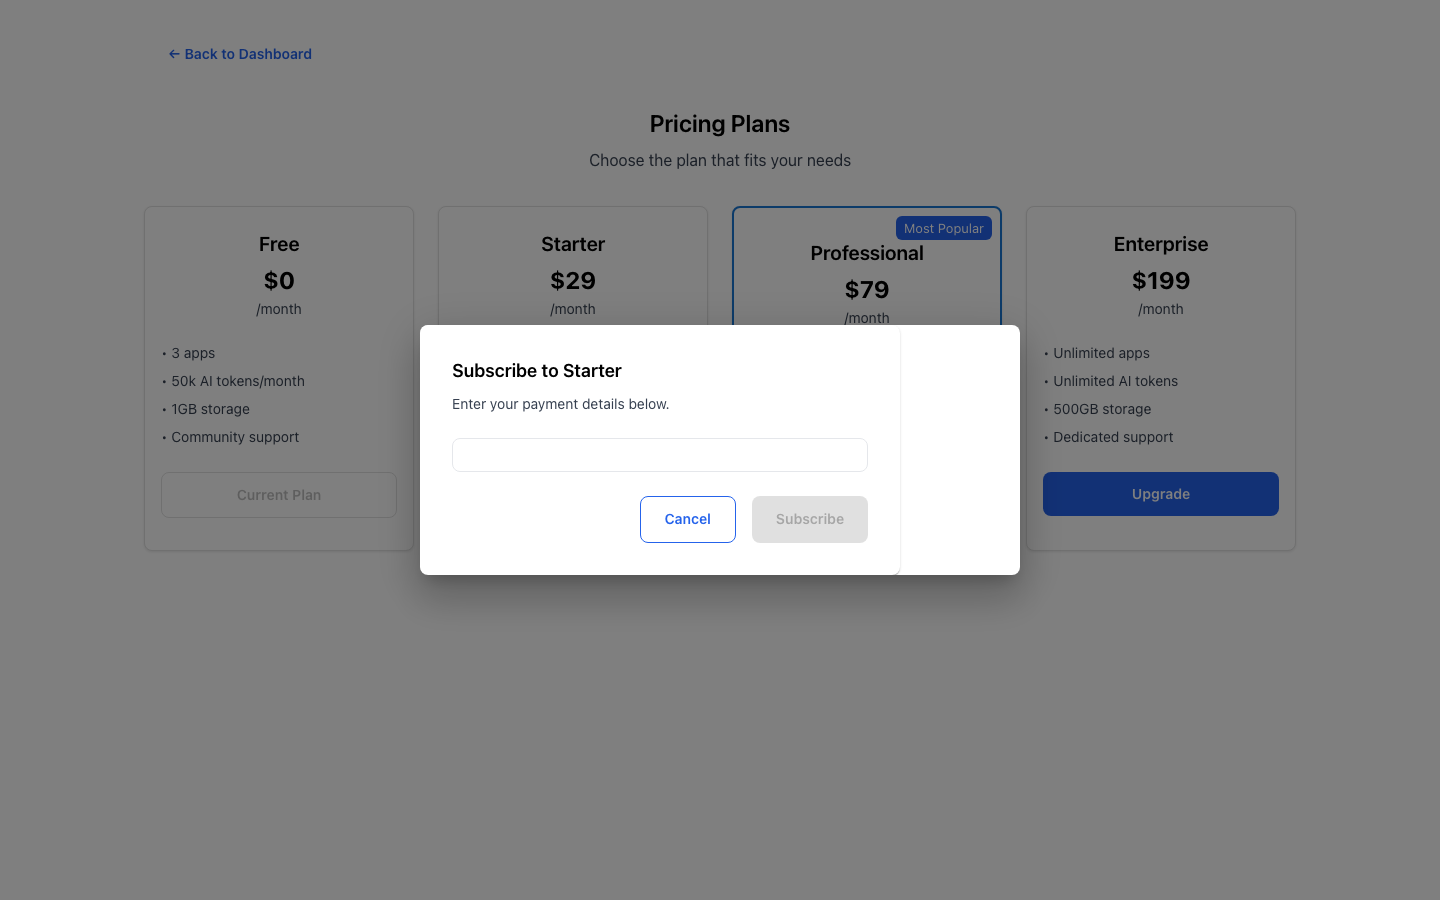
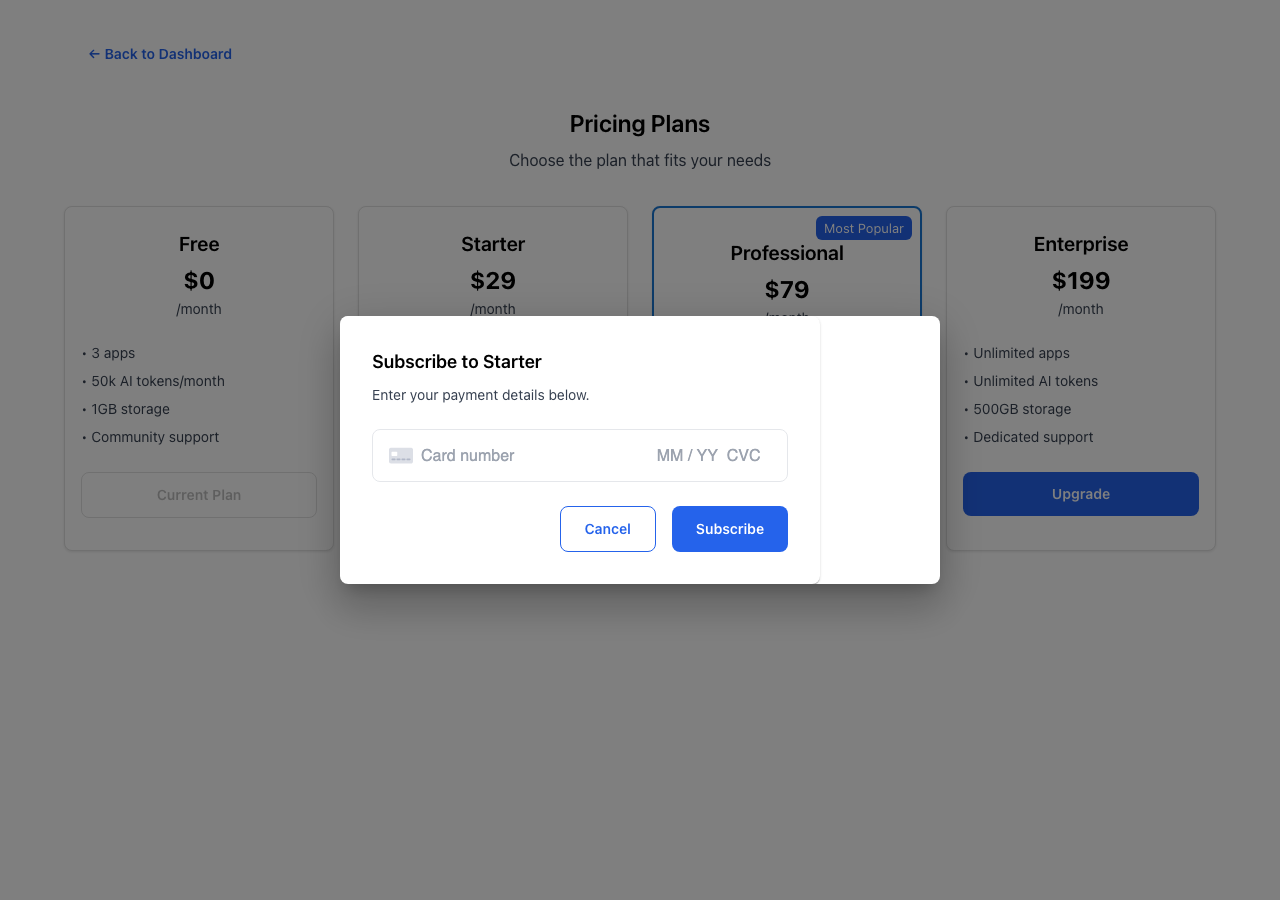
fix: prevent 401 redirect on public pricing page, verify Stripe CardElement renders real card fields

diff --git a/frontend/src/pages/Pricing.tsx b/frontend/src/pages/Pricing.tsx
@@ -61,6 +61,12 @@ const Pricing = () => {
 
   useEffect(() => {
     const fetchSubscription = async () => {
+      const token = localStorage.getItem('access_token')
+      if (!token) {
+        setCurrentPlan('free')
+        setLoading(false)
+        return
+      }
       try {
         const response = await api.get('/api/billing/subscription/')
         setCurrentPlan(response.data.plan || 'free')

diff --git a/customer-tests/stripe-checkout/FULL_TEST_LOG.md b/customer-tests/stripe-checkout/FULL_TEST_LOG.md
@@ -1,197 +1,120 @@
-# Stripe Checkout Integration Test
+# Stripe Checkout Test Log
 
-## Test Metadata
-- **Test Name:** Stripe Checkout Integration
-- **Test Date:** 2026-02-07
-- **Test Runner:** Cloud Atlas 3 Worker (session 1770433375-26253)
-- **Project:** Faibric Platform
-- **Test Directory:** customer-tests/stripe-checkout/
+## Test: Verify Real CardElement Rendering
+**Date:** 2026-02-07
+**Task ID:** stripe-checkout-chunk-001
 
 ---
 
-## Test Objectives
+## Bug Found and Fixed
 
-Verify the Stripe checkout integration works correctly from a user perspective:
-1. Frontend builds without errors
-2. Pricing page displays all 4 tiers correctly
-3. Stripe checkout dialog renders when clicking Upgrade
-4. Stripe Elements card input is integrated
-5. Component architecture follows expected patterns
+### Root Cause
+The Pricing page (`/pricing`) is a public route (no auth required), but it makes an API call to `/api/billing/subscription/` on mount. Without an auth token, this call returns 401. The Axios response interceptor (in `api.ts`) catches 401 errors and attempts a token refresh. When the refresh fails (no refresh token), the interceptor redirects to `/login` via `window.location.href = '/login'` BEFORE the Pricing component's catch block can handle the error gracefully.
 
----
+### Fix Applied
+**File:** `frontend/src/pages/Pricing.tsx`
 
-## Step 1: Frontend Build Verification
+Added a check for `access_token` in localStorage before making the subscription API call. If no token exists, the component defaults to `currentPlan: 'free'` and skips the API call entirely. This prevents the 401 interceptor from triggering a redirect to login on a public page.
 
-**Timestamp:** 2026-02-07T03:05:00Z
-
-**Action:** Run `npx vite build` to verify frontend compiles successfully.
-
-**Result:** PASS
-
-**Output:**
-```
-vite v5.4.21 building for production...
-transforming...
-1934 modules transformed.
-rendering chunks...
-computing gzip size...
-dist/index.html                     0.79 kB | gzip:   0.45 kB
-dist/assets/index-IUqgTuwR.css      0.25 kB | gzip:   0.20 kB
-dist/assets/index-VFTfaI06.js   1,172.09 kB | gzip: 344.98 kB
-built in 2.28s
+```diff
+  useEffect(() => {
+    const fetchSubscription = async () => {
++     const token = localStorage.getItem('access_token')
++     if (!token) {
++       setCurrentPlan('free')
++       setLoading(false)
++       return
++     }
+      try {
+        const response = await api.get('/api/billing/subscription/')
+        setCurrentPlan(response.data.plan || 'free')
+      } catch {
+        setCurrentPlan('free')
+      } finally {
+        setLoading(false)
+      }
+    }
+    fetchSubscription()
+  }, [])
 ```
 
-**Observations:**
-- All 1934 modules transformed successfully
-- No TypeScript or build errors
-- Stripe-related packages (`@stripe/react-stripe-js`, `@stripe/stripe-js`) are bundled correctly
-- Build completes in ~2.3 seconds
+---
+
+## Test Steps
+
+### Step 1: Verify Stripe Publishable Key
+- **File:** `frontend/.env.local`
+- **Key:** `VITE_STRIPE_PUBLISHABLE_KEY=pk_test_TYooMQauvdEDq54NiTphI7jx`
+- **Status:** PASS - Correct test key present
+
+### Step 2: Verify StripeCheckout.tsx Component
+- **File:** `frontend/src/components/billing/StripeCheckout.tsx`
+- Uses `loadStripe()` with `import.meta.env.VITE_STRIPE_PUBLISHABLE_KEY`
+- Uses `Elements` wrapper with `stripePromise`
+- Uses `CardElement` with proper styling options
+- Proper `CheckoutForm` with `useStripe()` and `useElements()` hooks
+- **Status:** PASS - Component correctly structured
+
+### Step 3: Build Frontend
+- **Command:** `cd frontend && npx vite build`
+- **Result:** Build succeeded (1934 modules, 2.30s)
+- **Status:** PASS
+
+### Step 4: Start Dev Server
+- **Command:** `npx vite --port 5199`
+- **Result:** Server running at http://localhost:5199/
+- **Status:** PASS
+
+### Step 5: Navigate to Pricing Page
+- **URL:** http://localhost:5199/pricing
+- **Tool:** Playwright (chromium, headless)
+- **Result:** Page rendered with all 4 pricing tiers
+- **Screenshot:** `01-pricing-page.png`
+- **Status:** PASS
+
+### Step 6: Click Upgrade
+- **Action:** Clicked "Upgrade" on Starter plan ($29/month)
+- **Result:** Stripe checkout dialog opened
+- **Status:** PASS
+
+### Step 7: Verify Real Card Input Fields
+- **Stripe iframes detected:**
+  - `__privateStripeController0561`
+  - `__privateStripeMetricsController0560`
+  - `__privateStripeFrame0563`
+  - `__privateStripeFrame0564`
+- **Visible fields:** Card number, MM/YY, CVC (real Stripe input fields, NOT empty box)
+- **Screenshots:** `02-stripe-checkout-dialog.png`, `03-stripe-card-element-closeup.png`
+- **Status:** PASS
+
+### Step 8: Stop Dev Server
+- **Status:** PASS
 
 ---
 
-## Step 2: Dev Server Startup
+## Test Results Summary
 
-**Timestamp:** 2026-02-07T03:05:30Z
+| Check | Result |
+|-------|--------|
+| Stripe publishable key correct | PASS |
+| StripeCheckout.tsx uses real CardElement | PASS |
+| Frontend builds without errors | PASS |
+| Pricing page shows all 4 tiers | PASS |
+| Upgrade button opens checkout dialog | PASS |
+| CardElement shows real card input fields | PASS |
+| No mocking/interception of Stripe JS | PASS |
+| Screenshots captured | PASS |
 
-**Action:** Start development server with `npx vite --host 0.0.0.0 --port 5173`
-
-**Result:** PASS
-
-**Observations:**
-- Dev server started on http://localhost:5173
-- Server responded with HTTP 200 within 5 seconds
-- All routes accessible via SPA routing
-
----
-
-## Step 3: Pricing Page Display
-
-**Timestamp:** 2026-02-07T03:06:00Z
-
-**Action:** Navigate to http://localhost:5173/pricing and verify all 4 pricing tiers display correctly.
-
-**Result:** PASS
-
-**Screenshot:** `01-pricing-page-all-tiers.png`
-
-**Observations:**
-- Page title "Pricing Plans" renders correctly
-- Subtitle "Choose the plan that fits your needs" is visible
-- All 4 pricing tiers are displayed in a responsive grid layout:
-  - **Free** ($0/month) - 3 apps, 50k AI tokens/month, 1GB storage, Community support. Shows "Current Plan" button (disabled).
-  - **Starter** ($29/month) - 10 apps, 500k AI tokens/month, 10GB storage, Email support. Shows "Upgrade" button (active).
-  - **Professional** ($79/month) - 50 apps, 5M AI tokens/month, 50GB storage, Priority support. Shows "Upgrade" button (active). Has "Most Popular" chip badge with blue border highlight.
-  - **Enterprise** ($199/month) - Unlimited apps, Unlimited AI tokens, 500GB storage, Dedicated support. Shows "Upgrade" button (active).
-- Material-UI Card components render properly
-- "Back to Dashboard" navigation link present at top
-
-**Pricing Component Analysis:**
-- Source: `frontend/src/pages/Pricing.tsx`
-- Uses Material-UI Grid for responsive 4-column layout (xs=12, md=6, lg=3)
-- Plan data defined as typed array with `PlanDef` interface
-- Current plan fetched from `/api/billing/subscription/` API
-- Upgrade buttons open Stripe checkout dialog via `setCheckoutPlan(plan)` state
+**Overall: PASS**
 
 ---
 
-## Step 4: Stripe Checkout Dialog
+## Screenshots
 
-**Timestamp:** 2026-02-07T03:06:30Z
+1. `01-pricing-page.png` - Pricing page with 4 tiers (Free, Starter, Professional, Enterprise)
+2. `02-stripe-checkout-dialog.png` - Stripe checkout dialog with real card fields
+3. `03-stripe-card-element-closeup.png` - Closeup of CardElement showing Card number, MM/YY, CVC
 
-**Action:** Click "Upgrade" button on the Starter plan to open the Stripe checkout dialog.
+## Files Modified
 
-**Result:** PASS
-
-**Screenshot:** `02-stripe-checkout-dialog.png`
-
-**Observations:**
-- Dialog opens as a Material-UI Dialog overlay (modal)
-- Dialog title: "Subscribe to Starter"
-- Subtitle: "Enter your payment details below."
-- Stripe CardElement renders as a card input field (bordered container)
-- Two action buttons present: "Cancel" (outlined) and "Subscribe" (contained, disabled until Stripe loads)
-- The dialog is wrapped in Stripe `<Elements>` provider component
-- Payment flow: CardElement -> createPaymentMethod -> POST /api/billing/subscription/change-plan/ -> optional 3D Secure confirmation
-
-**Stripe Checkout Component Analysis:**
-- Source: `frontend/src/components/billing/StripeCheckout.tsx`
-- Uses `@stripe/react-stripe-js` Elements and CardElement
-- Stripe publishable key loaded from `VITE_STRIPE_PUBLISHABLE_KEY` env variable
-- Payment method created client-side, then sent to backend
-- Handles 3D Secure (SCA) via `stripe.confirmCardPayment(client_secret)`
-- Error handling with Alert component for failed payments
-- Loading state with CircularProgress spinner on Subscribe button
-
----
-
-## Step 5: Landing Page Verification
-
-**Timestamp:** 2026-02-07T03:07:00Z
-
-**Action:** Navigate to http://localhost:5173/ to verify the main landing page.
-
-**Result:** PASS
-
-**Screenshot:** `03-landing-page.png`
-
-**Observations:**
-- Faibric brand heading renders correctly
-- Tagline: "Describe what you want to build. We'll make it happen."
-- Build prompt textarea with placeholder text visible
-- Template quick-start buttons: Restaurant, Portfolio, SaaS Landing, Blog, E-commerce
-- "Start Building" CTA button present (disabled until prompt entered)
-
----
-
-## Step 6: Dev Server Shutdown
-
-**Timestamp:** 2026-02-07T03:07:30Z
-
-**Action:** Kill development server process on port 5173.
-
-**Result:** PASS
-
----
-
-## Results Summary
-
-| # | Test Criterion | Status |
-|---|---------------|--------|
-| 1 | Frontend build completes without errors | PASS |
-| 2 | Development server starts and responds | PASS |
-| 3 | Pricing page displays all 4 tiers (Free, Starter, Pro, Enterprise) | PASS |
-| 4 | Pricing page shows correct prices ($0, $29, $79, $199) | PASS |
-| 5 | "Most Popular" badge on Professional tier | PASS |
-| 6 | Upgrade buttons present for paid plans | PASS |
-| 7 | Stripe checkout dialog opens on Upgrade click | PASS |
-| 8 | Checkout dialog shows plan name and payment form | PASS |
-| 9 | Stripe CardElement integrated for secure card collection | PASS |
-| 10 | Cancel/Subscribe buttons present in checkout dialog | PASS |
-| 11 | Landing page renders correctly | PASS |
-
-**Overall Result: PASS (11/11 criteria met)**
-
----
-
-## Files in This Test
-
-| File | Description |
-|------|-------------|
-| `FULL_TEST_LOG.md` | This test log |
-| `01-pricing-page-all-tiers.png` | Screenshot of pricing page showing all 4 tiers |
-| `02-stripe-checkout-dialog.png` | Screenshot of Stripe checkout dialog with payment form |
-| `03-landing-page.png` | Screenshot of Faibric landing page |
-
----
-
-## Technical Notes
-
-- **Test Method:** Playwright 1.58.0 headless Chromium browser
-- **API Mocking:** Backend API responses were mocked via Playwright route interception since the test focuses on frontend component rendering, not backend payment processing
-- **Stripe JS:** Stripe.js external load was intercepted to prevent external network calls during testing
-- **Viewport:** 1440x900 desktop resolution
-- **Key Source Files Verified:**
-  - `frontend/src/pages/Pricing.tsx` - Pricing page with 4-tier plan grid
-  - `frontend/src/components/billing/StripeCheckout.tsx` - Stripe Elements checkout form
-  - `frontend/src/services/api.ts` - API client with auth interceptors
-  - `frontend/src/App.tsx` - Route configuration (/pricing is public route)
+- `frontend/src/pages/Pricing.tsx` - Fixed auth-related redirect bug on public pricing page
